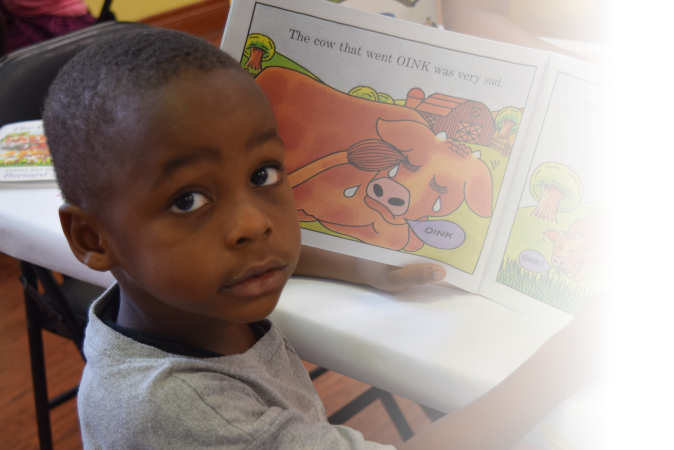
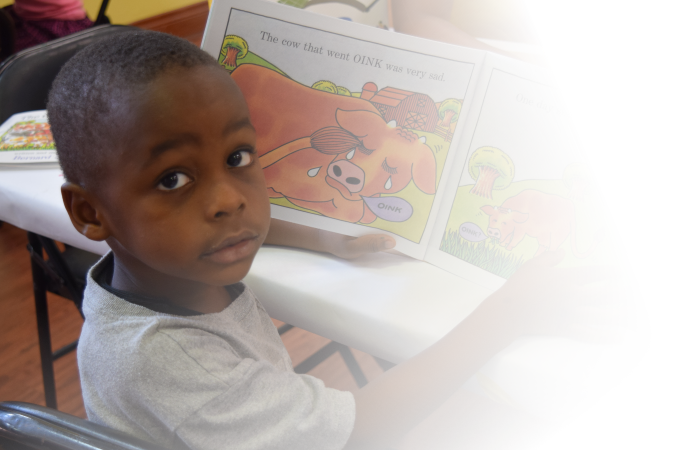
UI tweaks, better gradient on hero1 photo, added some data to campaign  list

diff --git a/app/helpers/application_helper.rb b/app/helpers/application_helper.rb
@@ -23,4 +23,11 @@ module ApplicationHelper
     end
     html.html_safe
   end
+
+  def user_is_admin?
+    if session[:userinfo] && session[:userinfo]['extra'] && session[:userinfo]['extra']['raw_info']
+      return session[:userinfo]['extra']['raw_info']['role'] == 'admin'
+    end
+    return false
+  end
 end
